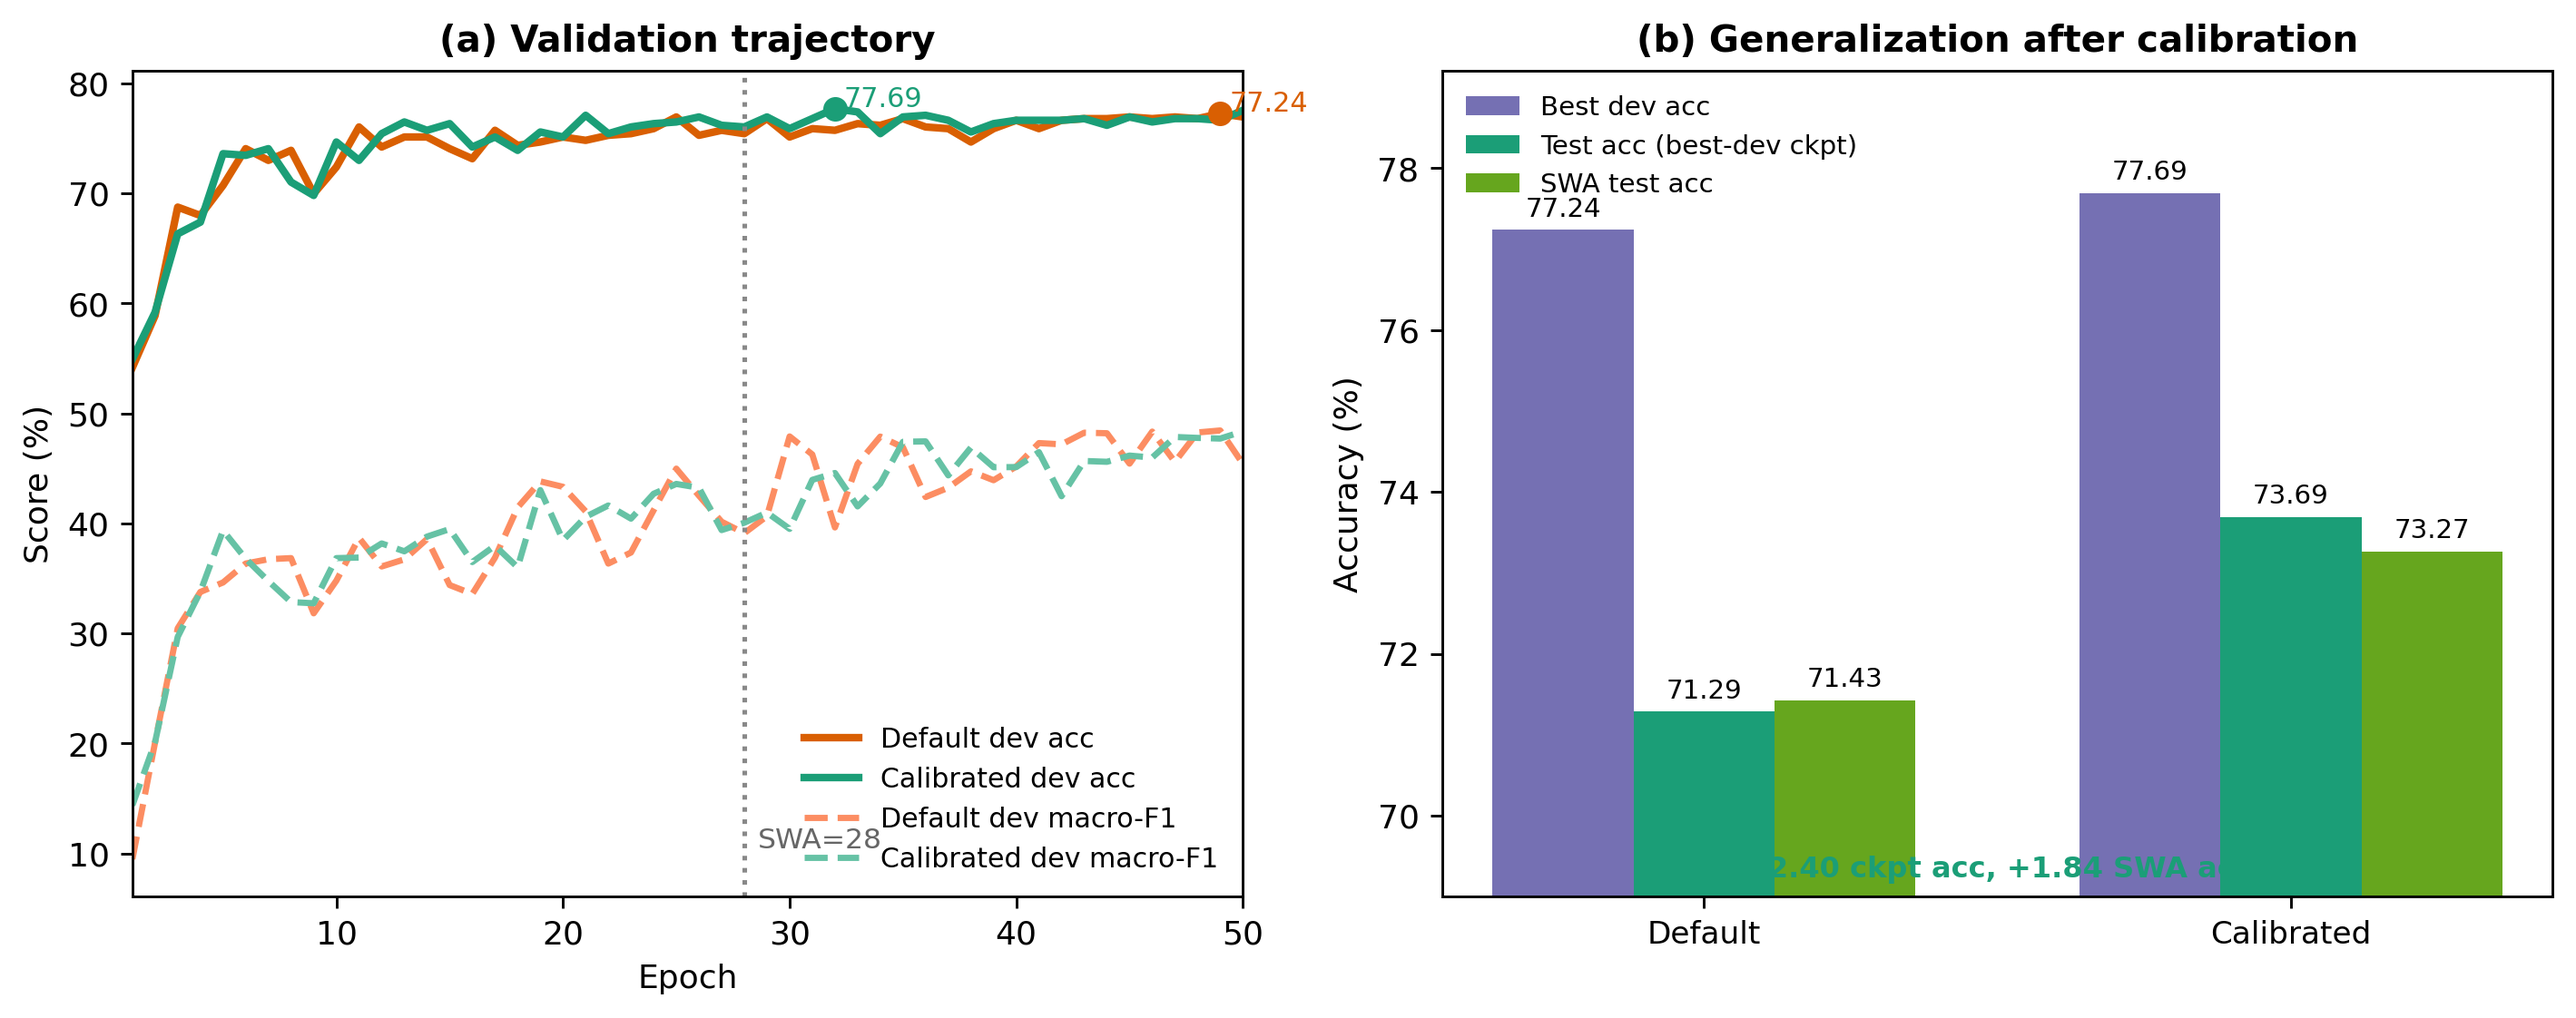
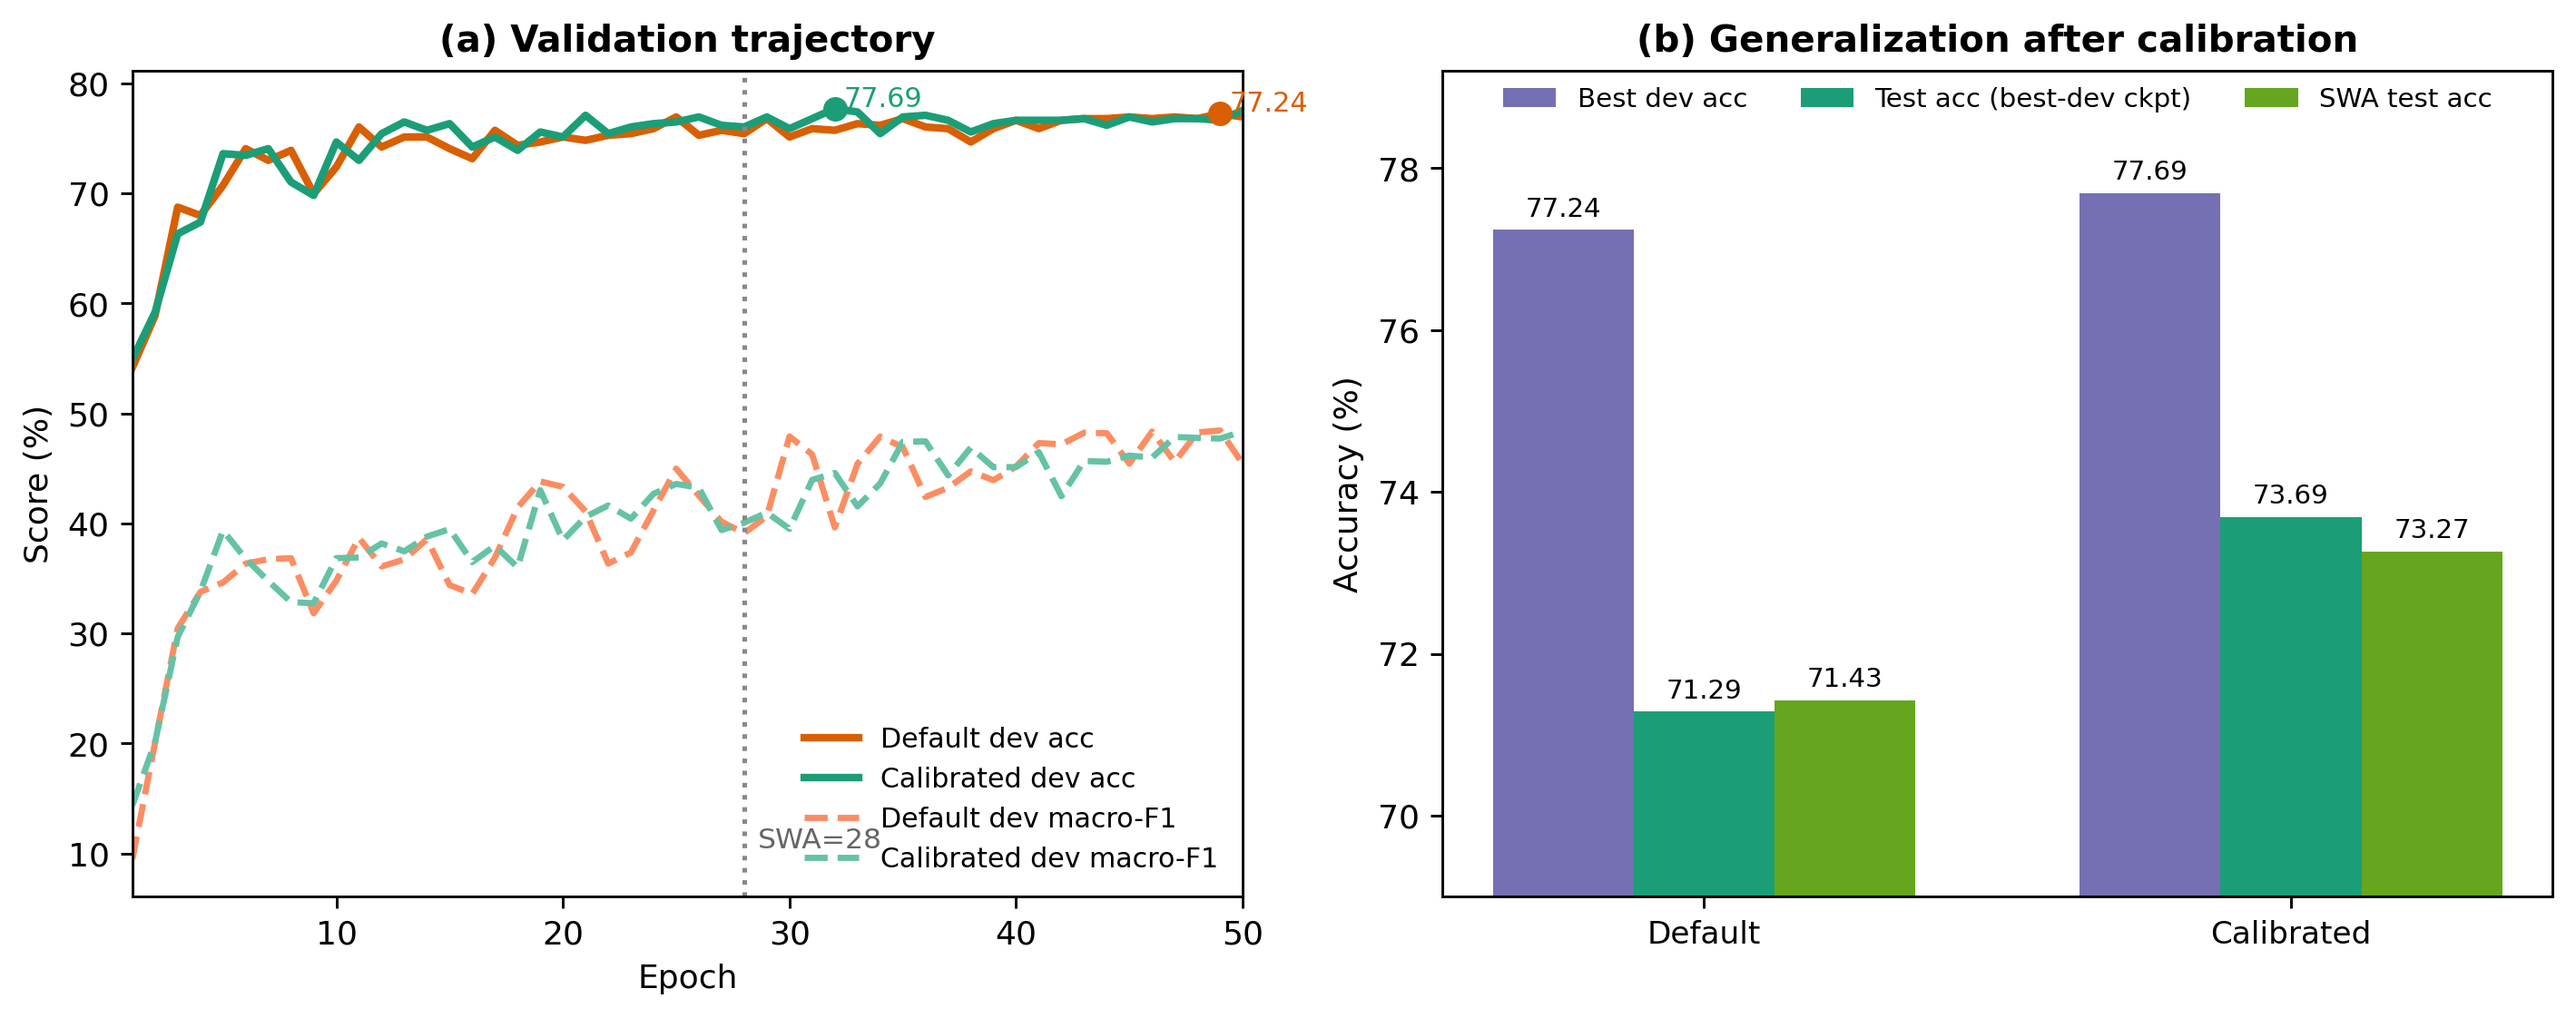
Fix SR reproduction command and calibration figure
Allow the documented SR command line to run correctly by accepting --use_dgcp and align the README with the actual defaults. Also remove overlapping annotation text from the calibration figures for the paper assets.

Made-with: Cursor

Changed region(s): [[0.5581, 0.0624, 0.8372, 0.1872], [0.6822, 0.8422, 0.8682, 0.8734], [0.8682, 0.0624, 0.9612, 0.1248]]

diff --git a/make_paper_figures_camera_ready.py b/make_paper_figures_camera_ready.py
@@ -273,24 +273,12 @@ def make_rfr_calibration_figure():
     ax.set_xticks(xpos)
     ax.set_xticklabels(names, fontsize=9.5)
     ax.set_ylim(69, 79.2)
-    ax.legend(frameon=False, fontsize=8.1, loc="upper left")
+    ax.legend(frameon=False, fontsize=8.1, loc="upper center", ncol=3, bbox_to_anchor=(0.5, 1.01))
 
     for bars in (bars1, bars2, bars3):
         for bar in bars:
             h = bar.get_height()
             ax.text(bar.get_x() + bar.get_width() / 2, h + 0.1, f"{h:.2f}", ha="center", va="bottom", fontsize=8.1)
-
-    best_gain = calibrated_ckpt_test - default_ckpt_test
-    swa_gain = calibrated_test_swa - default_test_swa
-    ax.text(
-        0.5,
-        69.24,
-        f"+{best_gain:.2f} ckpt acc, +{swa_gain:.2f} SWA acc",
-        ha="center",
-        fontsize=8.9,
-        color="#1b9e77",
-        fontweight="bold",
-    )
 
     png_path = FIG_DIR / "rfr_calibration.png"
     pdf_path = FIG_DIR / "rfr_calibration.pdf"
@@ -348,16 +336,12 @@ def make_rfr_calibration_figure_singlecol():
     ax.set_xticks(xpos)
     ax.set_xticklabels(names, fontsize=8.8)
     ax.set_ylim(69, 79.2)
-    ax.legend(frameon=False, fontsize=7.8, loc="upper left")
+    ax.legend(frameon=False, fontsize=7.8, loc="upper center", ncol=3, bbox_to_anchor=(0.5, 1.01))
 
     for bars in (bars1, bars2, bars3):
         for bar in bars:
             h = bar.get_height()
             ax.text(bar.get_x() + bar.get_width() / 2, h + 0.08, f"{h:.2f}", ha="center", va="bottom", fontsize=7.8)
-
-    best_gain = calibrated_ckpt_test - default_ckpt_test
-    swa_gain = calibrated_test_swa - default_test_swa
-    ax.text(0.5, 69.22, f"+{best_gain:.2f} ckpt, +{swa_gain:.2f} SWA", ha="center", fontsize=8.4, color="#1b9e77", fontweight="bold")
 
     png_path = FIG_DIR / "rfr_calibration_singlecol.png"
     pdf_path = FIG_DIR / "rfr_calibration_singlecol.pdf"

diff --git a/run_sr.py b/run_sr.py
@@ -43,7 +43,8 @@ def parse_args():
     parser.add_argument("--lambda_align", type=float, default=0.005, help="CDD alignment loss weight")
     parser.add_argument("--lambda_sep", type=float, default=0.001, help="CDD separation loss weight")
     parser.add_argument("--lambda_recon", type=float, default=0.01, help="CDR reconstruction loss weight; set 0 to disable CDR")
-    parser.add_argument("--no_dgcp", action="store_true", help="Disable DGCP: use standard supcon instead of discrepancy-guided contrastive pairs")
+    parser.add_argument("--use_dgcp", action="store_true", default=True, help="Enable DGCP (kept for backward-compatible command lines; DGCP is enabled by default)")
+    parser.add_argument("--no_dgcp", dest="use_dgcp", action="store_false", help="Disable DGCP: use standard supcon instead of discrepancy-guided contrastive pairs")
     parser.add_argument("--cdd_loss_warmup_epochs", type=int, default=5, help="Linearly warmup CDD auxiliary losses over this many epochs")
     parser.add_argument("--no_rfr", action="store_true", help="CDD-Net ablation: disable raw fusion residual and use CDD fused branch only")
     parser.add_argument("--rfr_gate_tau", type=float, default=1.0, help="RFR gate temperature; >1 softens gate, prevents early polarization")
@@ -116,7 +117,7 @@ def main():
         lambda_align=args.lambda_align,
         lambda_sep=args.lambda_sep,
         lambda_recon=args.lambda_recon,
-        use_dgcp=not args.no_dgcp,
+        use_dgcp=args.use_dgcp,
         cdd_loss_warmup_epochs=args.cdd_loss_warmup_epochs,
         use_rfr=not args.no_rfr,
         rfr_gate_tau=args.rfr_gate_tau,

diff --git a/README.md b/README.md
@@ -146,7 +146,6 @@ Example calibrated SR configuration used in the paper:
 ```bash
 python run_sr.py \
   --modality cdd \
-  --use_dgcp \
   --swa_start_epoch 28 \
   --rfr_gate_tau 1.8 \
   --rfr_beta_init 1.0 \
@@ -160,7 +159,6 @@ Full reproducible command for the reported 75.18% SR result
 ```bash
 python run_sr.py \
   --modality cdd \
-  --use_dgcp \
   --rfr_gate_tau 1.8 \
   --rfr_beta_init 1.0 \
   --swa_start_epoch 28 \
@@ -186,7 +184,7 @@ python run_sr.py \
 One-line version:
 
 ```bash
-python run_sr.py --modality cdd --use_dgcp --rfr_gate_tau 1.8 --rfr_beta_init 1.0 --swa_start_epoch 28 --epochs 50 --batch_size 4 --gradient_accumulation_steps 8 --encoder_lr 1e-5 --classifier_lr 5e-4 --dropout 0.3 --lambda_con 0.01 --lambda_orth 0.001 --lambda_align 0.005 --lambda_sep 0.001 --lambda_recon 0.01 --mixup_alpha 0.3 --focal_gamma 2.0 --rdrop_alpha 1.0 --augment_train --exp_name sr_B_align_seed73 --seed 73
+python run_sr.py --modality cdd --rfr_gate_tau 1.8 --rfr_beta_init 1.0 --swa_start_epoch 28 --epochs 50 --batch_size 4 --gradient_accumulation_steps 8 --encoder_lr 1e-5 --classifier_lr 5e-4 --dropout 0.3 --lambda_con 0.01 --lambda_orth 0.001 --lambda_align 0.005 --lambda_sep 0.001 --lambda_recon 0.01 --mixup_alpha 0.3 --focal_gamma 2.0 --rdrop_alpha 1.0 --augment_train --exp_name sr_B_align_seed73 --seed 73
 ```
 
 Representative SR ablations and baselines:
